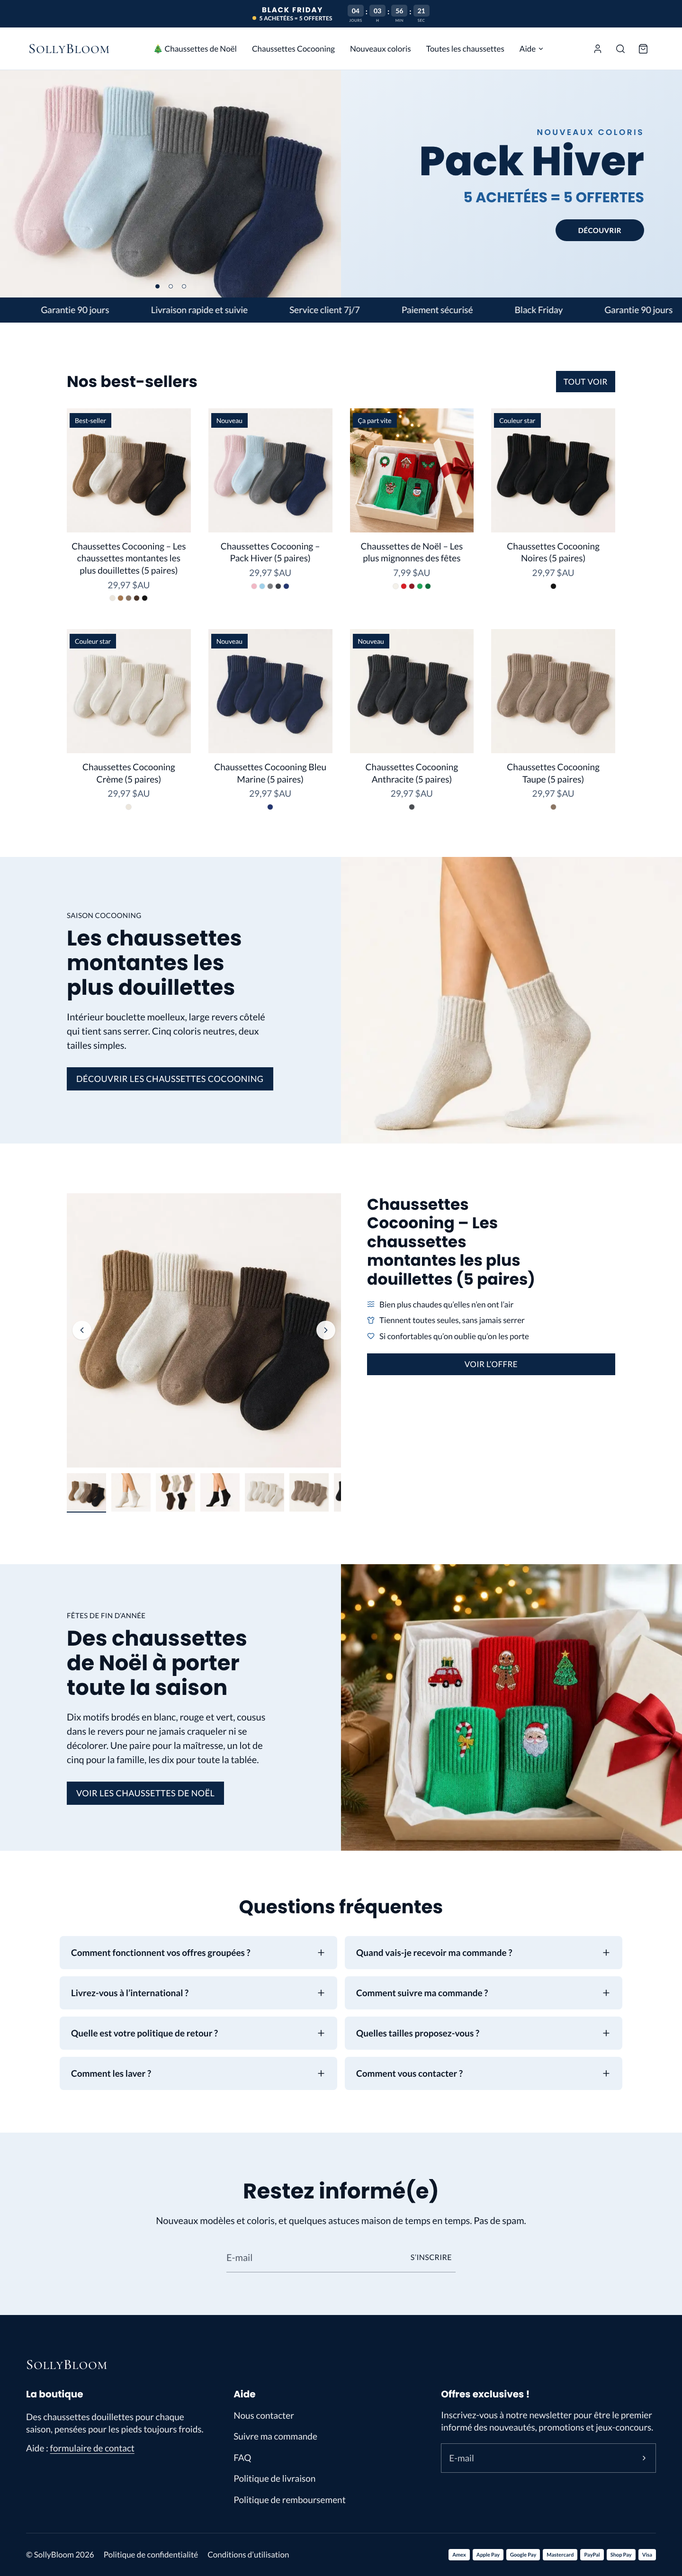
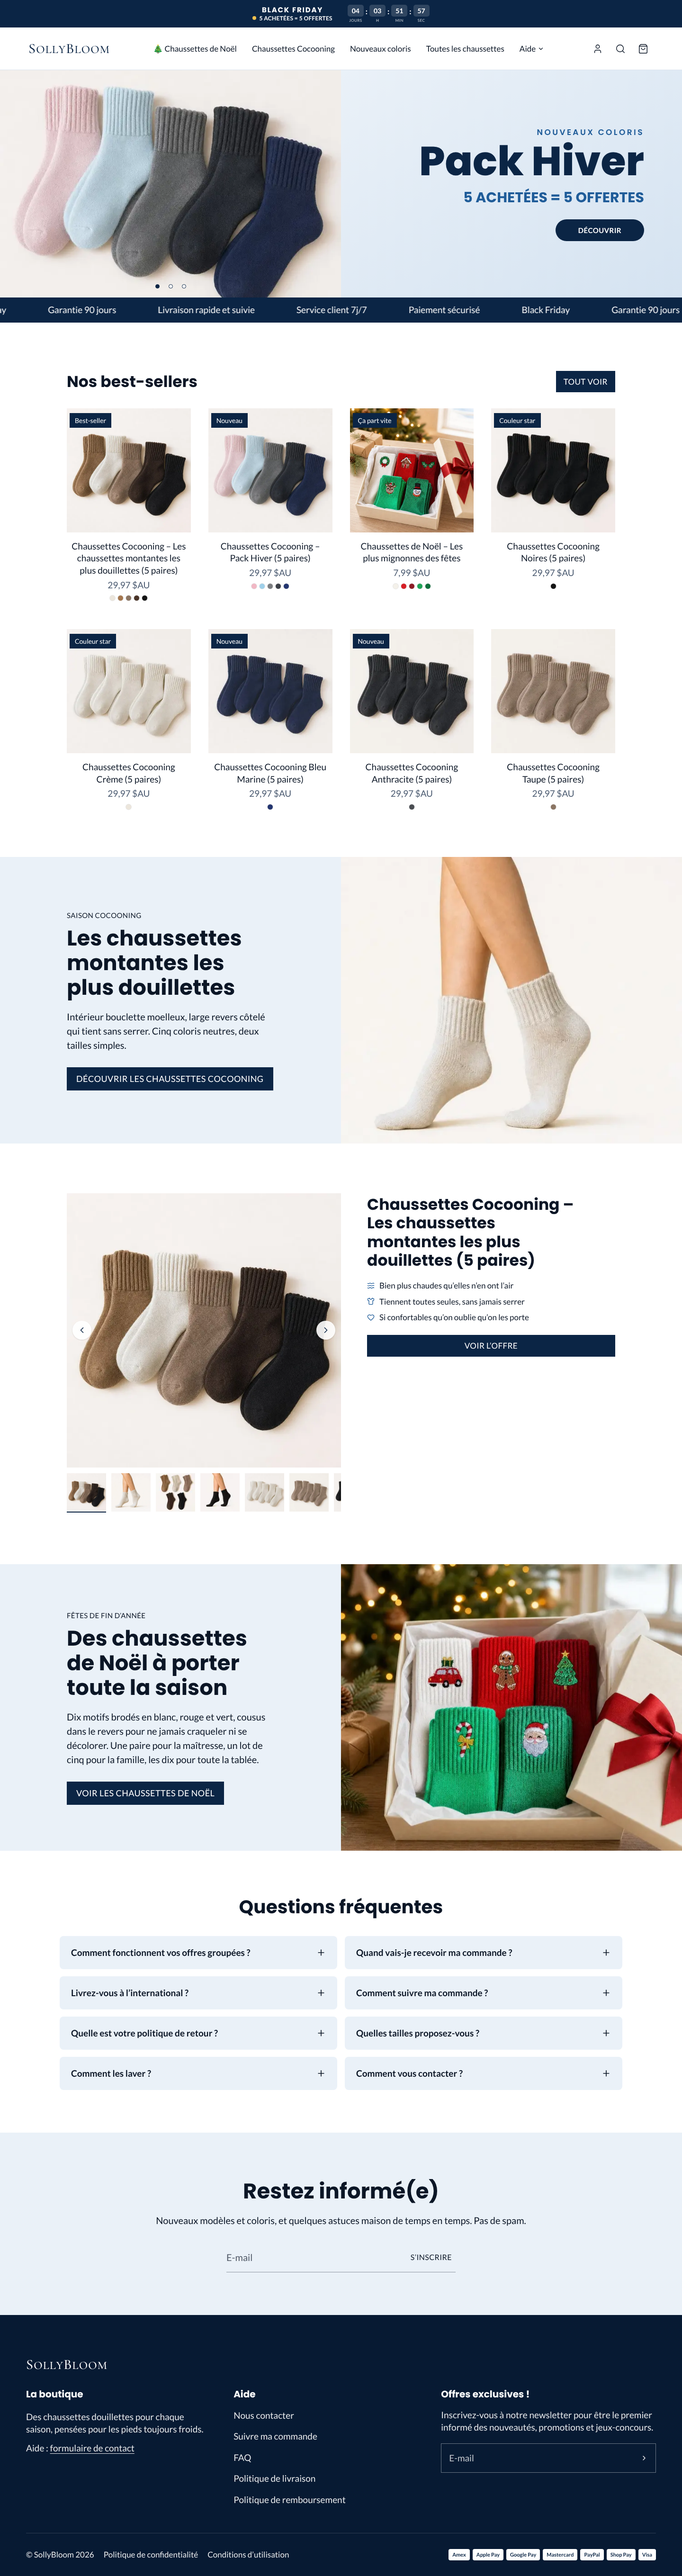
Add French Chaussettes Cocooning collection page modelled on maplena.com/collections/sweater-socks
Claude-Session: https://claude.ai/code/session_017M9qQMBkkRJ7PLAmW6SkCo

Changed region(s): [[0.5312, 0.4662, 0.9062, 0.5594]]

diff --git a/src/components/sites/sollybloom/data.ts b/src/components/sites/sollybloom/data.ts
@@ -86,10 +86,10 @@ export const bestSellers: Product[] = [
 
 export const navLinks = [
   { label: "🎄 Chaussettes de Noël", href: productUrl("christmas-socks") },
-  { label: "Chaussettes Cocooning", href: productUrl("sweater-socks") },
+  { label: "Chaussettes Cocooning", href: "/collections/sweater-socks" },
   { label: "Nouveaux coloris", href: productUrl("sweater-socks-winter-pack-5-pairs") },
   { label: "Toutes les chaussettes", href: `${STORE_URL}/collections/all` },
-  { label: "Aide", href: "#faq" },
+  { label: "Aide", href: "/#faq" },
 ];
 
 export const trustItems = [
@@ -133,4 +133,36 @@ export const faqs: { q: string; a: string }[] = [
     q: "Comment vous contacter ?",
     a: "Écrivez-nous via la page Contact de la boutique : une vraie personne répond à chaque message sous 24 h les jours ouvrés.",
   },
+];
+
+const color = (
+  handle: string,
+  name: string,
+  image: string,
+  swatch: string,
+  badge?: string,
+): Product => ({
+  handle,
+  title: `Chaussettes Cocooning ${name} (5 paires)`,
+  price: 29.97,
+  image: `/sites/sollybloom/${image}.jpg`,
+  badge,
+  swatches: [swatch],
+});
+
+export const sweaterSocksCollection: Product[] = [
+  { ...bestSellers[0], title: "Chaussettes Cocooning – Les plus douillettes (5 paires)" },
+  bestSellers[1],
+  bestSellers[3],
+  bestSellers[4],
+  bestSellers[5],
+  bestSellers[6],
+  { ...bestSellers[7], badge: "Tendance" },
+  color("espresso-sweater-socks-the-coziest-slouchy-boot-socks-5-pairs", "Espresso", "espresso", "#3b2a22"),
+  color("plum-sweater-socks-5-pairs", "Prune", "plum", "#4b2a5c", "Nouveau"),
+  color("camel-sweater-socks-the-coziest-slouchy-boot-socks-5-pairs", "Camel", "camel", "#b08a55"),
+  color("wine-sweater-socks-5-pairs", "Bordeaux", "wine", "#5a1530", "Nouveau"),
+  color("dove-grey-sweater-socks-5-pairs", "Gris Perle", "dove-grey", "#7c7f83", "Nouveau"),
+  color("blush-pink-sweater-socks-5-pairs", "Rose Poudré", "blush-pink", "#f0bcc8", "Nouveau"),
+  color("ice-blue-sweater-socks-5-pairs", "Bleu Glacier", "ice-blue", "#8fc6e6", "Nouveau"),
 ];

diff --git a/src/app/collections/sweater-socks/page.tsx b/src/app/collections/sweater-socks/page.tsx
@@ -1,0 +1,43 @@
+import type { Metadata } from "next";
+import { AnnouncementBar } from "@/components/sites/sollybloom/announcement-bar";
+import { CollectionBanner } from "@/components/sites/sollybloom/collection-banner";
+import { sweaterSocksCollection } from "@/components/sites/sollybloom/data";
+import { Footer } from "@/components/sites/sollybloom/footer";
+import { Header } from "@/components/sites/sollybloom/header";
+import { ProductCard } from "@/components/sites/sollybloom/sections";
+
+export const metadata: Metadata = {
+  title: "Chaussettes Cocooning – SollyBloom",
+  description:
+    "Toutes nos Chaussettes Cocooning : intérieur bouclette moelleux, large revers côtelé qui tient sans serrer, dans 14 packs et coloris.",
+};
+
+export default function SweaterSocksCollection() {
+  return (
+    <>
+      <a href="#contenu" className="sr-only focus:not-sr-only focus:absolute focus:top-2 focus:left-2 focus:z-50 focus:bg-white focus:p-3">
+        Aller au contenu
+      </a>
+      <AnnouncementBar />
+      <Header />
+      <main id="contenu">
+        <CollectionBanner />
+        <div className="px-4 pt-[50px] pb-[36px] text-center md:pt-[56px] md:pb-[60px]">
+          <h1 className="font-heading text-[26px] font-bold text-sb-ink md:text-[33px]">
+            Chaussettes Cocooning
+            <sup className="ml-1 align-super text-[13px] font-semibold">
+              {sweaterSocksCollection.length}
+              <span className="sr-only"> produits</span>
+            </sup>
+          </h1>
+        </div>
+        <ul className="mx-auto grid max-w-[1440px] grid-cols-2 gap-x-4 gap-y-10 px-4 pb-[60px] md:gap-x-[34px] md:gap-y-[60px] md:px-[55px] md:pb-[90px] lg:grid-cols-4">
+          {sweaterSocksCollection.map((p) => (
+            <ProductCard key={p.handle} product={p} />
+          ))}
+        </ul>
+      </main>
+      <Footer />
+    </>
+  );
+}

diff --git a/src/components/sites/sollybloom/header.tsx b/src/components/sites/sollybloom/header.tsx
@@ -17,6 +17,31 @@ export function Logo({ light = false }: { light?: boolean }) {
   );
 }
 
+function NavLink({
+  href,
+  className,
+  onClick,
+  children,
+}: {
+  href: string;
+  className: string;
+  onClick?: () => void;
+  children: React.ReactNode;
+}) {
+  if (href.startsWith("/")) {
+    return (
+      <Link href={href} className={className} onClick={onClick}>
+        {children}
+      </Link>
+    );
+  }
+  return (
+    <a href={href} className={className} onClick={onClick}>
+      {children}
+    </a>
+  );
+}
+
 export function Header() {
   const [open, setOpen] = useState(false);
 
@@ -40,10 +65,10 @@ export function Header() {
           <ul className="flex items-center gap-8 text-[17px] text-sb-ink">
             {navLinks.map((link) => (
               <li key={link.label}>
-                <a href={link.href} className="flex items-center gap-1 hover:underline hover:underline-offset-4">
+                <NavLink href={link.href} className="flex items-center gap-1 hover:underline hover:underline-offset-4">
                   {link.label}
                   {link.label === "Aide" && <ChevronDown className="size-3.5" aria-hidden="true" />}
-                </a>
+                </NavLink>
               </li>
             ))}
           </ul>
@@ -67,9 +92,9 @@ export function Header() {
           <ul>
             {navLinks.map((link) => (
               <li key={link.label} className="border-b border-sb-line">
-                <a href={link.href} className="block py-4 text-[18px] text-sb-ink" onClick={() => setOpen(false)}>
+                <NavLink href={link.href} className="block py-4 text-[18px] text-sb-ink" onClick={() => setOpen(false)}>
                   {link.label}
-                </a>
+                </NavLink>
               </li>
             ))}
             <li>

diff --git a/src/components/sites/sollybloom/collection-banner.tsx b/src/components/sites/sollybloom/collection-banner.tsx
@@ -1,0 +1,31 @@
+import { Gift } from "lucide-react";
+
+export function CollectionBanner() {
+  return (
+    <section
+      aria-label="Offre Black Friday"
+      className="relative flex h-[162px] items-center justify-center overflow-hidden bg-[radial-gradient(ellipse_at_center,#1f5c99_0%,#0b2545_55%,#071a33_100%)] px-4 text-center md:h-[245px]"
+    >
+      <Gift
+        className="absolute top-1/2 left-[6%] hidden size-[120px] -translate-y-1/2 -rotate-12 text-sb-gold/35 md:block"
+        strokeWidth={1}
+        aria-hidden="true"
+      />
+      <Gift
+        className="absolute top-1/2 right-[6%] hidden size-[120px] -translate-y-1/2 rotate-12 text-sb-gold/35 md:block"
+        strokeWidth={1}
+        aria-hidden="true"
+      />
+      <div>
+        <p className="font-heading text-[12px] font-semibold tracking-[0.25em] text-sb-gold uppercase md:text-[17px]">
+          Chaussettes Cocooning
+        </p>
+        <p className="font-heading text-[40px] leading-[1.05] font-extrabold text-white md:text-[68px]">Black Friday</p>
+        <p className="font-heading text-[22px] leading-tight font-extrabold text-sb-gold uppercase md:text-[34px]">
+          5 achetées = 5 offertes
+        </p>
+        <p className="mt-0.5 text-[13px] font-bold text-white md:text-[18px]">Sur chaque pack, dans chaque coloris</p>
+      </div>
+    </section>
+  );
+}

diff --git a/src/components/sites/sollybloom/footer.tsx b/src/components/sites/sollybloom/footer.tsx
@@ -1,11 +1,12 @@
 import { ChevronRight } from "lucide-react";
+import Link from "next/link";
 import { STORE_URL } from "./data";
 import { Logo } from "./header";
 
 const supportLinks = [
   { label: "Nous contacter", href: `${STORE_URL}/pages/contact` },
   { label: "Suivre ma commande", href: `${STORE_URL}/account` },
-  { label: "FAQ", href: "#faq" },
+  { label: "FAQ", href: "/#faq" },
   { label: "Politique de livraison", href: `${STORE_URL}/policies/shipping-policy` },
   { label: "Politique de remboursement", href: `${STORE_URL}/policies/refund-policy` },
 ];
@@ -40,9 +41,15 @@ export function Footer() {
             <ul className="mt-4 space-y-4 text-[19px] text-white/90">
               {supportLinks.map((l) => (
                 <li key={l.label}>
-                  <a href={l.href} className="hover:underline hover:underline-offset-4">
-                    {l.label}
-                  </a>
+                  {l.href.startsWith("/") ? (
+                    <Link href={l.href} className="hover:underline hover:underline-offset-4">
+                      {l.label}
+                    </Link>
+                  ) : (
+                    <a href={l.href} className="hover:underline hover:underline-offset-4">
+                      {l.label}
+                    </a>
+                  )}
                 </li>
               ))}
             </ul>

diff --git a/src/components/sites/sollybloom/sections.tsx b/src/components/sites/sollybloom/sections.tsx
@@ -16,7 +16,7 @@ export function TrustMarquee() {
   );
 }
 
-function ProductCard({ product }: { product: Product }) {
+export function ProductCard({ product }: { product: Product }) {
   return (
     <li className="group relative flex flex-col text-center">
       <div className="relative aspect-square overflow-hidden bg-sb-ice">
